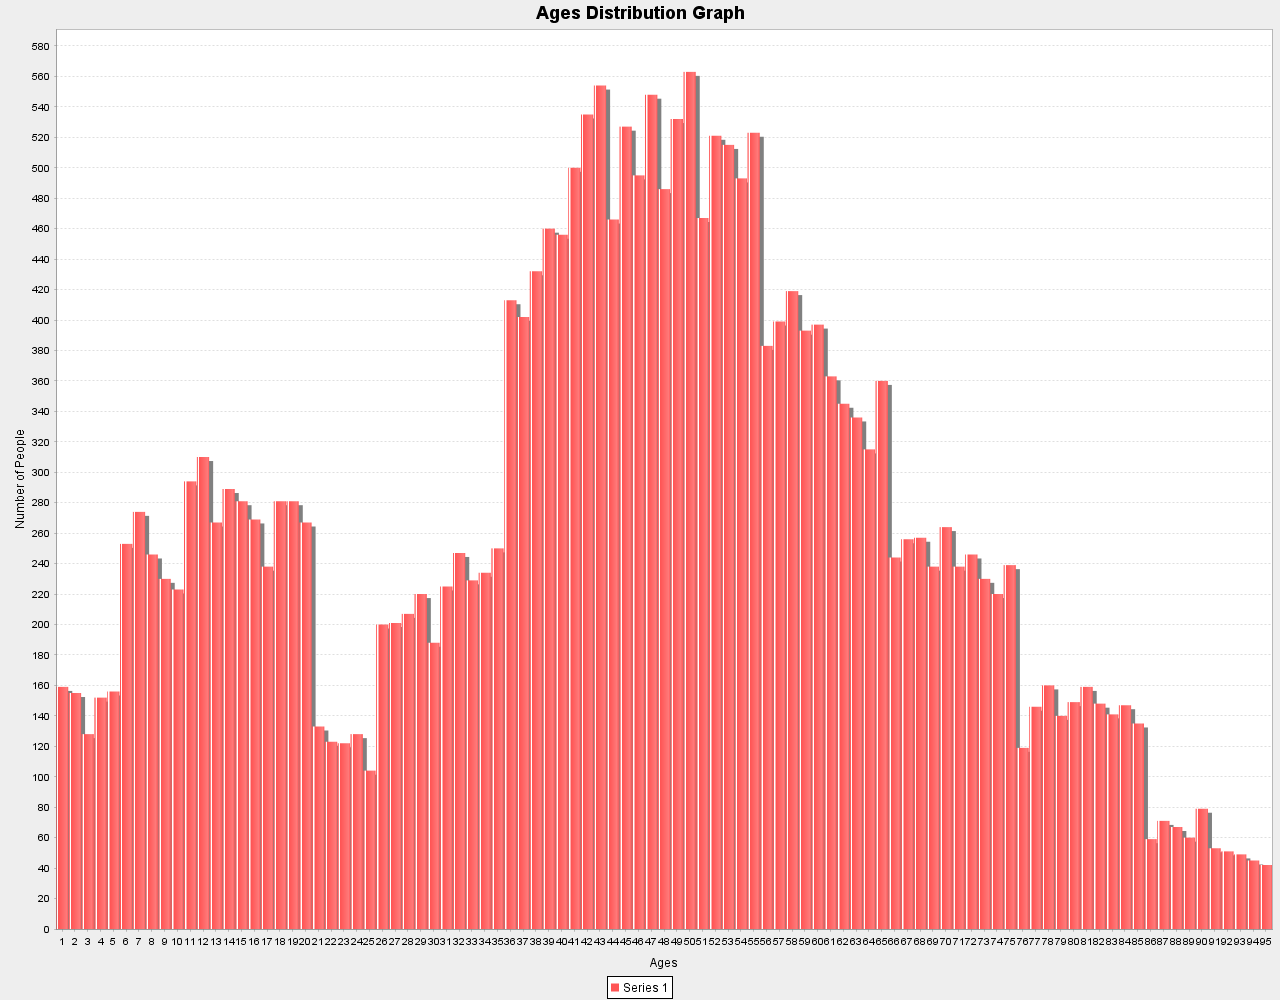
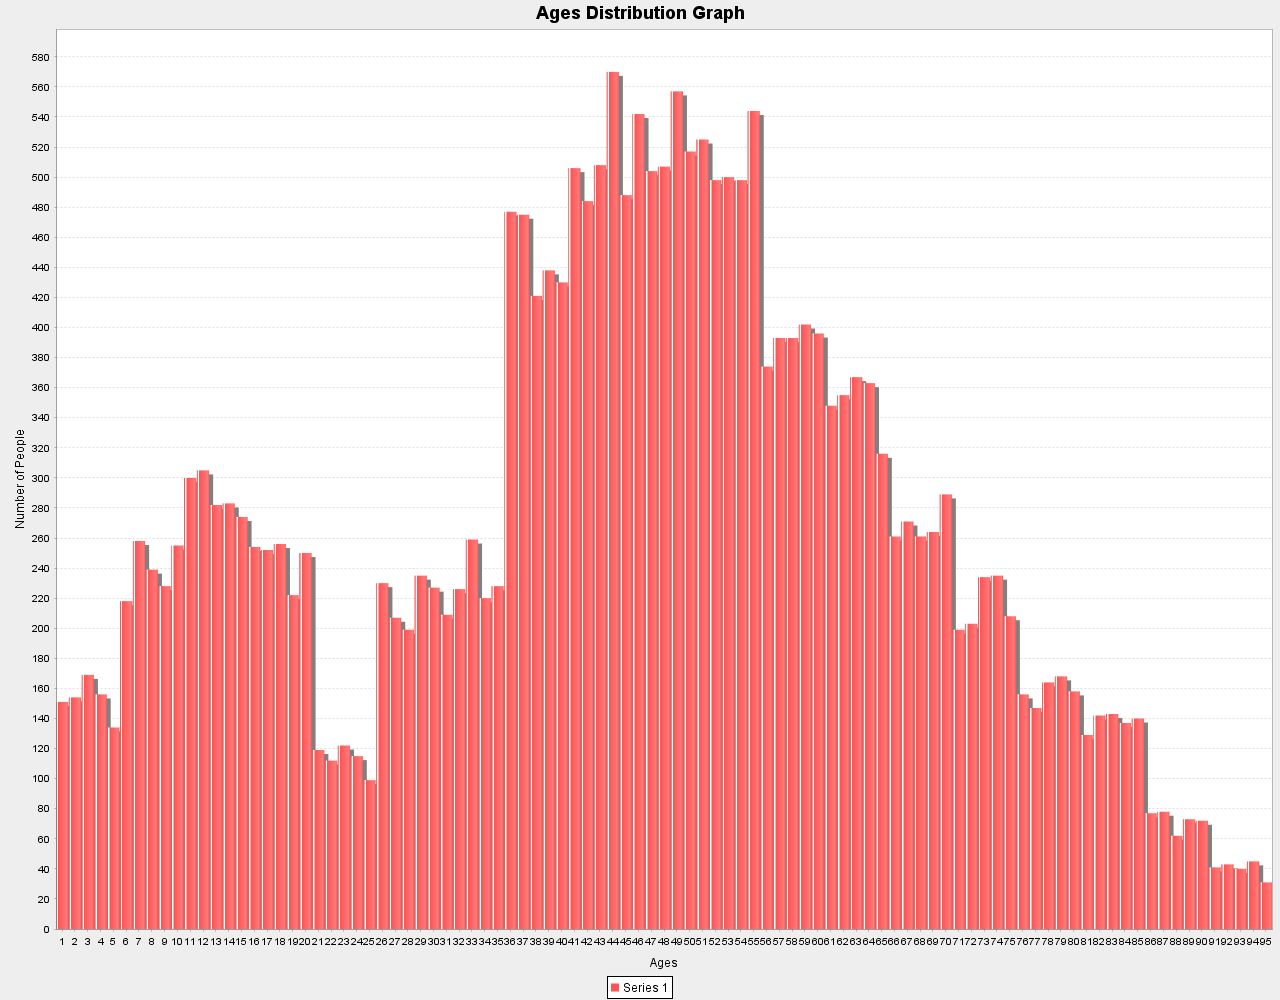
NewVersion
- Should do that averges thing....

diff --git a/src/masterdiseasesimulation/ManyLinesAverageObject.java b/src/masterdiseasesimulation/ManyLinesAverageObject.java
@@ -505,10 +505,12 @@ public class ManyLinesAverageObject {
 		boolean displayAverages = false;
 
 		ArrayList<DayStat> days = new ArrayList<DayStat>();
-
+		ArrayList<DayStat> dayStorage = new ArrayList<DayStat>();
+		
 		//Initialize daystat array
 		for (int k = 0; k < maxDays; k++) {
 			days.add(new DayStat(k, 0, 0, 0));
+			dayStorage.add(new DayStat(k, 0, 0, 0));
 		}
 
 		//Add totals for each day
@@ -568,12 +570,38 @@ public class ManyLinesAverageObject {
 		MoreMethods.makeChart(dataset, filePath[0] + "/" + fileName, "Average Number of Sick People (" + runTimes + " runs) - " + networkSelectString + " Network", "Days", "Infected People (out of " + numPeople + ")");
 
 
-		//Open graph image
-		File f = new File(filePath[0] + "/" + fileName + ".png");
-		Desktop dt = Desktop.getDesktop();
-		dt.open(f);
+//		//Open graph image
+//		File f = new File(filePath[0] + "/" + fileName + ".png");
+//		Desktop dt = Desktop.getDesktop();
+//		dt.open(f);
 
+		for(ArrayList<InfoStorage> runtime  : results.getInfoStorages()){
+			for(InfoStorage day : runtime){
+				int i = runtime.indexOf(day);
+				int j = results.getInfoStorages().indexOf(runtime);
+				dayStorage.get(j).setCurrentSick(results.getInfoStorages().get(i).get(j).getNumSick());
+				dayStorage.get(j).setTotalSick(results.getInfoStorages().get(i).get(j).getTotalSick());
+				dayStorage.get(j).setCost(results.getInfoStorages().get(i).get(j).getCost());
+				
+				XYSeriesCollection dataset1 = new XYSeriesCollection();
 
+				XYSeries numSick1 = new XYSeries("Sick People");
+				XYSeries totalSick1 = new XYSeries("Total Sick People");
+				XYSeries cost1 = new XYSeries("Cost");
+
+				dataset1.addSeries(numSick1);
+				dataset1.addSeries(totalSick1);
+				dataset1.addSeries(cost1);
+				
+				for (DayStat dayValue : dayStorage) {
+					MoreMethods.addPoint(numSick, dayValue.getDay(), dayValue.getCurrentSick());
+					MoreMethods.addPoint(totalSick, dayValue.getDay(), dayValue.getTotalSick());
+					MoreMethods.addPoint(cost, dayValue.getDay(), dayValue.getCost());
+				}
+				String newFileName = "notAveragedGraph used with: " + fileName +  " - " + Integer.toString(i);
+				MoreMethods.makeChart(dataset, filePath[0] + "/" + newFileName, "non - Averaged Number of Sick People (" + runTimes + " runs) - " + networkSelectString + " Network", "Days", "Infected People (out of " + numPeople + ")");
+			}
+		}
 		if (doFwF) {
 			//Friends with Friends stuff---------------------------------------
 			methods.calculateConnectivityRatios(people);
